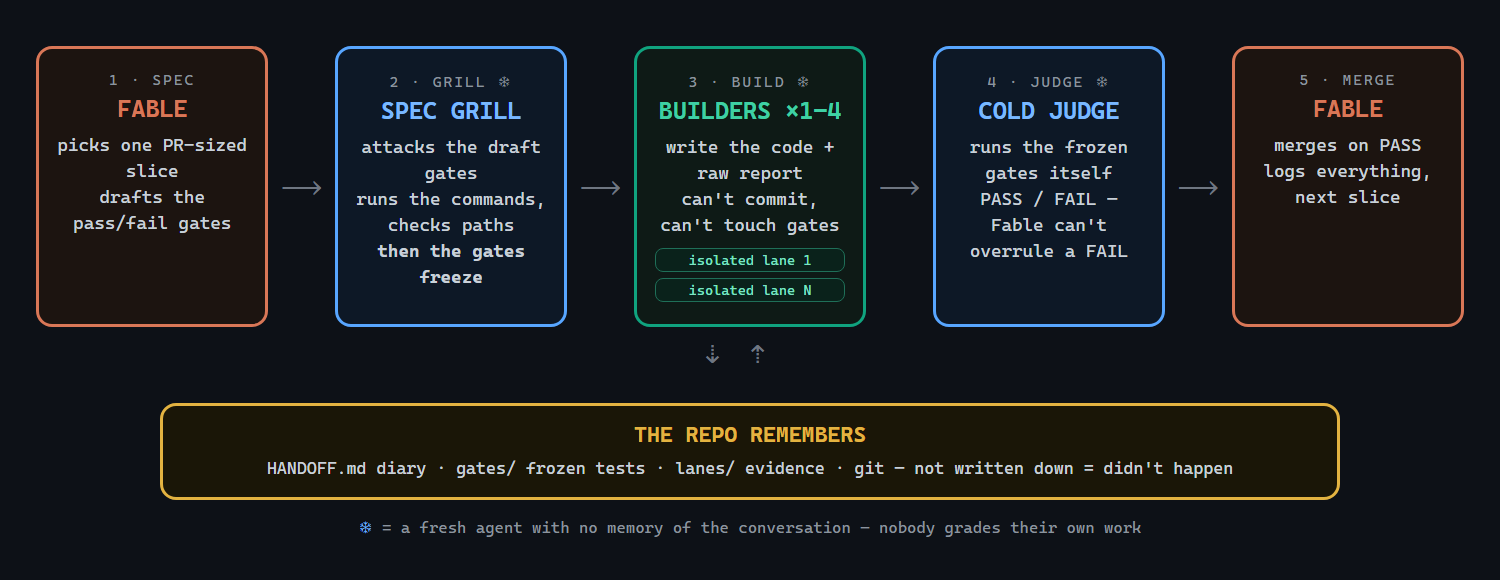
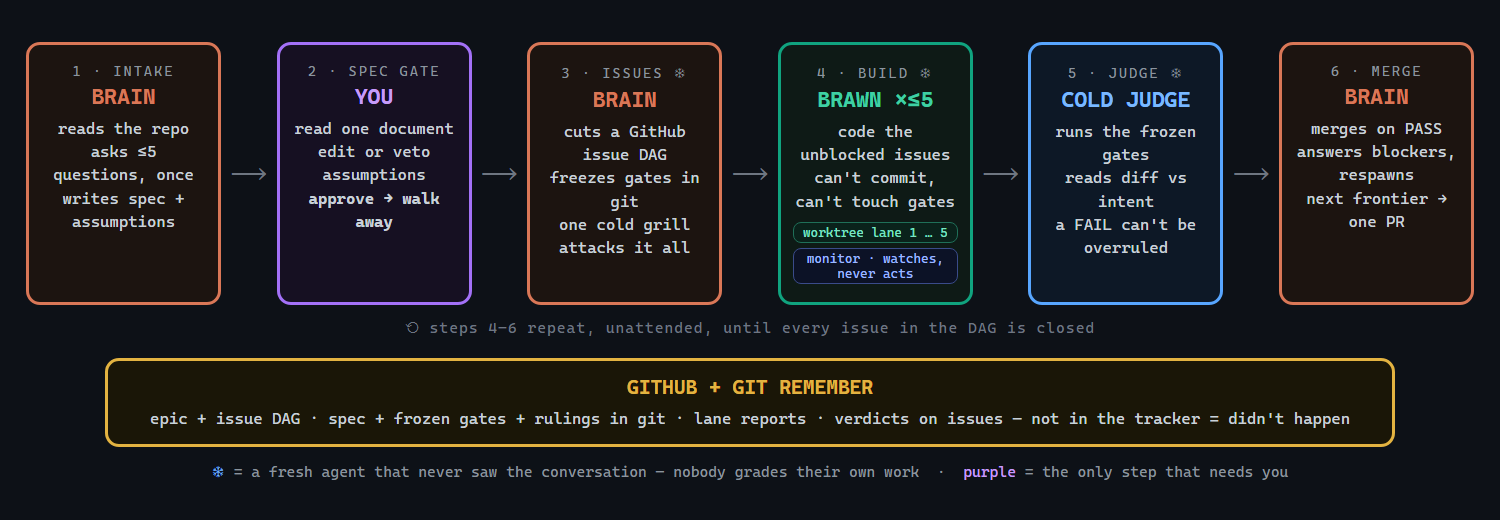
assets: v5 factory-flow diagram replaces stale v4 diagram; README references it
Human-directed docs pass (same precedent as the v4 README diagram work):
six-stage flow — intake, spec gate (the one human step, purple), issue DAG
+ grill, brawn lanes + monitor, cold judge, merge loop — plus the
GitHub+git memory bar. v5-docs lane had de-referenced the stale v4 diagram
and left the asset as recorded follow-up; this consumes that follow-up.

diff --git a/assets/architect-flow.html b/assets/architect-flow.html
@@ -1,65 +1,73 @@
 <!DOCTYPE html>
 <html><head><meta charset="utf-8"><style>
   * { margin:0; padding:0; box-sizing:border-box; }
-  body { width:1500px; height:580px; background:#0d1117; font-family:"Cascadia Code",Consolas,monospace; color:#e6edf3; padding:40px 36px; }
-  .row { display:flex; align-items:stretch; justify-content:center; gap:12px; margin-top:6px; }
-  .box { border-radius:16px; padding:22px 18px; text-align:center; width:252px; display:flex; flex-direction:column; justify-content:flex-start; }
+  body { width:1500px; height:520px; background:#0d1117; font-family:"Cascadia Code",Consolas,monospace; color:#e6edf3; padding:36px 26px; }
+  .row { display:flex; align-items:stretch; justify-content:center; gap:9px; margin-top:6px; }
+  .box { border-radius:14px; padding:18px 12px; text-align:center; width:224px; display:flex; flex-direction:column; justify-content:flex-start; }
   .fable { background:#1c1410; border:3px solid #d97757; }
+  .human { background:#161022; border:3px solid #a371f7; }
   .cold  { background:#0d1826; border:3px solid #58a6ff; }
   .build { background:#0e1a16; border:3px solid #10a37f; }
-  .who { font-size:24px; font-weight:700; }
-  .fable .who { color:#d97757; } .cold .who { color:#79b8ff; } .build .who { color:#3fd0a4; }
-  .step { font-size:15px; color:#8b949e; letter-spacing:2px; margin-bottom:6px; }
-  .does { font-size:18px; color:#c9d1d9; margin-top:9px; line-height:1.45; }
-  .arrow { font-size:36px; color:#6e7681; align-self:center; }
-  .lanes { display:flex; flex-direction:column; gap:6px; margin-top:10px; }
-  .lane { border:1.5px solid #1f6f58; border-radius:8px; padding:3px 8px; font-size:14px; color:#7ee2c3; background:#0a221b; }
-  .repo { margin:34px auto 0; width:1180px; background:#1a1607; border:3px solid #e3b341; border-radius:16px; padding:16px; text-align:center; }
-  .repo .who { color:#e3b341; font-size:22px; }
-  .repo .does { font-size:17px; }
-  .updown { text-align:center; color:#6e7681; font-size:26px; margin-top:12px; letter-spacing:30px; }
-  .legend { text-align:center; color:#8b949e; font-size:16px; margin-top:16px; }
-  .legend .snow { color:#79b8ff; }
+  .who { font-size:22px; font-weight:700; }
+  .fable .who { color:#d97757; } .cold .who { color:#79b8ff; } .build .who { color:#3fd0a4; } .human .who { color:#c69df9; }
+  .step { font-size:14px; color:#8b949e; letter-spacing:2px; margin-bottom:5px; }
+  .does { font-size:16px; color:#c9d1d9; margin-top:8px; line-height:1.45; }
+  .arrow { font-size:32px; color:#6e7681; align-self:center; }
+  .lanes { display:flex; flex-direction:column; gap:5px; margin-top:9px; }
+  .lane { border:1.5px solid #1f6f58; border-radius:8px; padding:2px 7px; font-size:13px; color:#7ee2c3; background:#0a221b; }
+  .mon  { border:1.5px solid #3a4b8a; border-radius:8px; padding:2px 7px; font-size:13px; color:#9db7ff; background:#0c1226; }
+  .loop { text-align:center; color:#6e7681; font-size:15px; margin-top:14px; letter-spacing:1px; }
+  .repo { margin:20px auto 0; width:1290px; background:#1a1607; border:3px solid #e3b341; border-radius:14px; padding:14px; text-align:center; }
+  .repo .who { color:#e3b341; font-size:20px; }
+  .repo .does { font-size:16px; }
+  .legend { text-align:center; color:#8b949e; font-size:15px; margin-top:14px; }
+  .legend .snow { color:#79b8ff; } .legend .you { color:#c69df9; }
 </style></head><body>
   <div class="row">
     <div class="box fable">
-      <div class="step">1 · SPEC</div>
-      <div class="who">FABLE</div>
-      <div class="does">picks one PR-sized slice<br>drafts the pass/fail gates</div>
+      <div class="step">1 · INTAKE</div>
+      <div class="who">BRAIN</div>
+      <div class="does">reads the repo<br>asks ≤5 questions, once<br>writes spec + assumptions</div>
     </div>
     <div class="arrow">⟶</div>
-    <div class="box cold">
-      <div class="step">2 · GRILL ❄</div>
-      <div class="who">SPEC GRILL</div>
-      <div class="does">attacks the draft gates<br>runs the commands, checks paths<br><b>then the gates freeze</b></div>
+    <div class="box human">
+      <div class="step">2 · SPEC GATE</div>
+      <div class="who">YOU</div>
+      <div class="does">read one document<br>edit or veto assumptions<br><b>approve → walk away</b></div>
+    </div>
+    <div class="arrow">⟶</div>
+    <div class="box fable">
+      <div class="step">3 · ISSUES ❄</div>
+      <div class="who">BRAIN</div>
+      <div class="does">cuts a GitHub issue DAG<br>freezes gates in git<br>one cold grill attacks it all</div>
     </div>
     <div class="arrow">⟶</div>
     <div class="box build">
-      <div class="step">3 · BUILD ❄</div>
-      <div class="who">BUILDERS ×1–4</div>
-      <div class="does">write the code + raw report<br>can't commit, can't touch gates</div>
+      <div class="step">4 · BUILD ❄</div>
+      <div class="who">BRAWN ×≤5</div>
+      <div class="does">code the unblocked issues<br>can't commit, can't touch gates</div>
       <div class="lanes">
-        <div class="lane">isolated lane 1</div>
-        <div class="lane">isolated lane N</div>
+        <div class="lane">worktree lane 1 … 5</div>
+        <div class="mon">monitor · watches, never acts</div>
       </div>
     </div>
     <div class="arrow">⟶</div>
     <div class="box cold">
-      <div class="step">4 · JUDGE ❄</div>
+      <div class="step">5 · JUDGE ❄</div>
       <div class="who">COLD JUDGE</div>
-      <div class="does">runs the frozen gates itself<br>PASS / FAIL —<br>Fable can't overrule a FAIL</div>
+      <div class="does">runs the frozen gates<br>reads diff vs intent<br>a FAIL can't be overruled</div>
     </div>
     <div class="arrow">⟶</div>
     <div class="box fable">
-      <div class="step">5 · MERGE</div>
-      <div class="who">FABLE</div>
-      <div class="does">merges on PASS<br>logs everything, next slice</div>
+      <div class="step">6 · MERGE</div>
+      <div class="who">BRAIN</div>
+      <div class="does">merges on PASS<br>answers blockers, respawns<br>next frontier → one PR</div>
     </div>
   </div>
-  <div class="updown">⇣⇡</div>
+  <div class="loop">⟲ steps 4–6 repeat, unattended, until every issue in the DAG is closed</div>
   <div class="repo">
-    <div class="who">THE REPO REMEMBERS</div>
-    <div class="does">HANDOFF.md diary · gates/ frozen tests · lanes/ evidence · git — not written down = didn't happen</div>
+    <div class="who">GITHUB + GIT REMEMBER</div>
+    <div class="does">epic + issue DAG · spec + frozen gates + rulings in git · lane reports · verdicts on issues — not in the tracker = didn't happen</div>
   </div>
-  <div class="legend"><span class="snow">❄</span> = a fresh agent with no memory of the conversation — nobody grades their own work</div>
+  <div class="legend"><span class="snow">❄</span> = a fresh agent that never saw the conversation — nobody grades their own work&nbsp;&nbsp;·&nbsp;&nbsp;<span class="you">purple</span> = the only step that needs you</div>
 </body></html>
